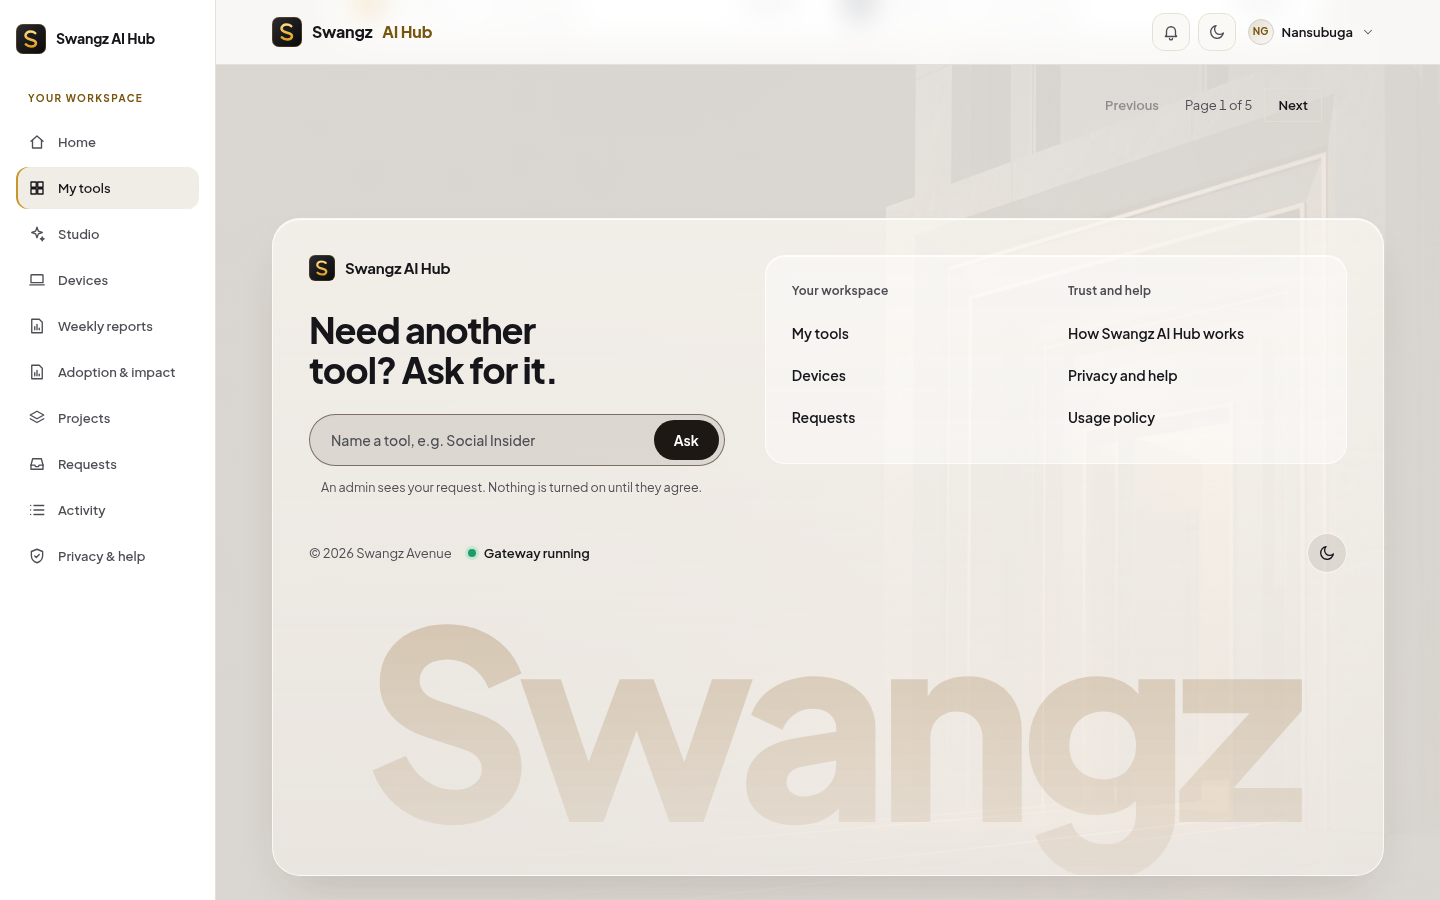
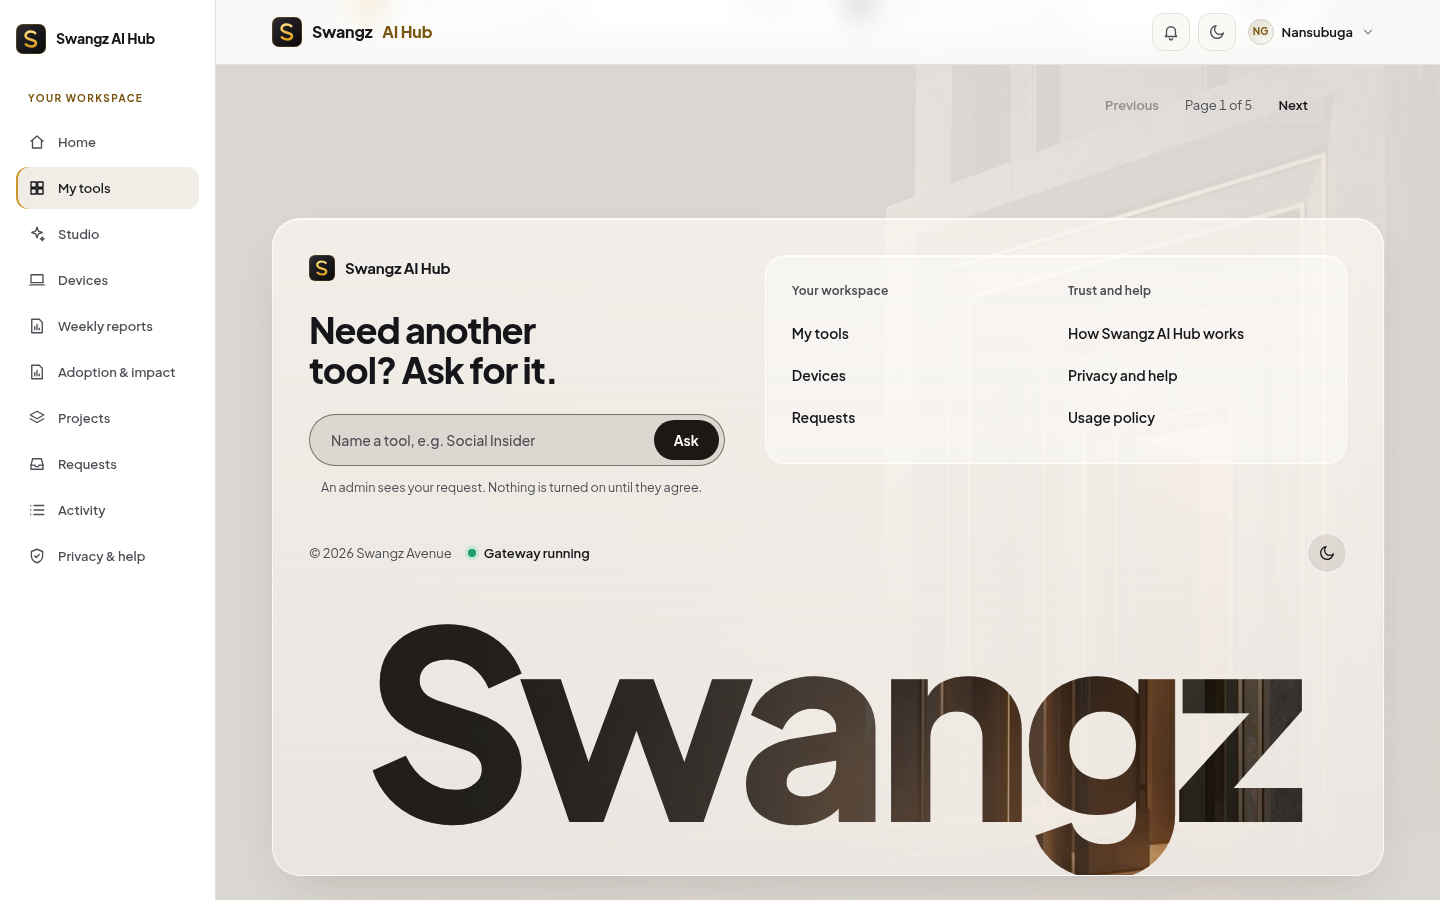
Footer wordmark: show the scene photo through the letters (placed by layout, no fixed background, filter or stroke); same-distance trace and measured contrast

Changed region(s): [[0.25, 0.6844, 0.9062, 0.9956]]

diff --git a/gateway/static/portal.js b/gateway/static/portal.js
@@ -351,6 +351,7 @@
             col("Trust and help", [link("#/privacy", "How Swangz AI Hub works"), link("#/privacy", "Privacy and help"), el("button", { type: "button", onclick: policy }, "Usage policy")]))),
         el("div", { class: "gf-meta" }, el("span", { class: "gf-copy" }, "\u00a9 " + new Date().getFullYear() + " Swangz Avenue"), status, el("span", { class: "gf-theme-wrap" }, theme)),
         el("div", { class: "gf-word", "aria-hidden": "true" }, "Swangz"))));
+    wordmarkScene(f);
     if ("IntersectionObserver" in window && !matchMedia("(prefers-reduced-motion: reduce)").matches) {
       f.classList.add("gf-armed");
       const show = () => { f.classList.add("gf-in"); io.disconnect(); };
@@ -361,6 +362,42 @@
     }
     return f;
   }
+
+  /* The wordmark's letters are windows onto the scene photo behind the milky panel. The scene is one fixed plane (body::before,
+     centre / cover); a fixed background on the letters would be repainted on every scroll step, so the letters get an ordinary
+     background laid out once to line up with that plane where the footer comes to rest (page scrolled to the end). It is measured
+     on load and on resize, never on scroll. Before the photo is known the CSS falls back to a plain gradient. */
+  function wordmarkScene(f) {
+    const word = f.querySelector(".gf-word");
+    let ratio = 0, frame = 0;
+    const place = () => {
+      frame = 0;
+      if (!ratio || !word.isConnected) return;
+      const vw = document.documentElement.clientWidth, vh = window.innerHeight;
+      const scale = Math.max(vw / ratio[0], vh / ratio[1]), bw = ratio[0] * scale, bh = ratio[1] * scale;
+      const box = word.getBoundingClientRect();
+      const rest = Math.max(0, document.documentElement.scrollHeight - vh);   // where the page ends up when the footer is fully shown
+      const left = box.left, top = box.top + window.scrollY - rest;
+      const st = word.style;
+      st.setProperty("--gf-bw", bw.toFixed(1) + "px"); st.setProperty("--gf-bh", bh.toFixed(1) + "px");
+      st.setProperty("--gf-bx", ((vw - bw) / 2 - left).toFixed(1) + "px"); st.setProperty("--gf-by", ((vh - bh) / 2 - top).toFixed(1) + "px");
+      f.classList.add("gf-photo");
+    };
+    const queue = () => { if (!frame) frame = requestAnimationFrame(place); };
+    wordmarkQueue = queue;   // the pages rebuild the footer; one listener below serves whichever footer is current
+    const m = /url\(["']?([^"')]+)["']?\)/.exec(getComputedStyle(document.body, "::before").backgroundImage || "");
+    if (!m) return;
+    const img = new Image();
+    img.onload = () => { ratio = [img.naturalWidth, img.naturalHeight]; queue(); };
+    img.src = m[1];
+    if (!wordmarkWatching) {
+      wordmarkWatching = true;
+      const again = () => { if (wordmarkQueue) wordmarkQueue(); };
+      window.addEventListener("resize", again);
+      if ("ResizeObserver" in window) new ResizeObserver(again).observe(document.body);   // the page grew or shrank above the footer
+    }
+  }
+  let wordmarkQueue = null, wordmarkWatching = false;
 
   function sectionHead(eyebrow, title, text, action) {
     return el("div", { class: "section-head" }, el("div", null, eyebrow ? el("div", { class: "eyebrow" }, eyebrow) : null, el("h1", null, title), text ? el("p", null, text) : null), action || null);

diff --git a/gateway/static/portal.css b/gateway/static/portal.css
@@ -374,11 +374,11 @@ dialog .d-actions { display: flex; justify-content: flex-end; gap: var(--s3); pa
 .foot.glass-foot { margin-top: var(--s9); border: 0; background: none; padding: 0 var(--gutter) var(--s6); }
 .gf-wrap { max-width: var(--shell); margin: 0 auto; container-type: inline-size; }
 .gf-panel {
-  --gf-ink: var(--tx-1); --gf-ink-2: var(--tx-2); --gf-cut-a: rgba(255, 246, 232, .34); --gf-cut-b: rgba(255, 246, 232, .08);
+  --gf-ink: var(--tx-1); --gf-ink-2: var(--tx-2); --gf-cut-a: rgba(255, 246, 232, .34); --gf-cut-b: rgba(255, 246, 232, .08); --gf-lift: rgba(255, 246, 232, .40);
   position: relative; border-radius: 28px; padding: clamp(20px, 3vw, 36px) clamp(18px, 3vw, 36px) 0; overflow: hidden;
   background: linear-gradient(180deg, rgba(48, 41, 37, .78), rgba(26, 22, 20, .84)); border: 1px solid var(--glass-rim); box-shadow: var(--glass-highlight), var(--glass-shadow); color: var(--gf-ink);
 }
-html[data-theme="light"] .gf-panel { --gf-cut-a: rgba(150, 108, 50, .30); --gf-cut-b: rgba(150, 108, 50, .08); background: linear-gradient(180deg, rgba(250, 246, 240, .74), rgba(245, 240, 234, .58)); }
+html[data-theme="light"] .gf-panel { --gf-lift: rgba(60, 44, 30, .34); --gf-cut-a: rgba(150, 108, 50, .30); --gf-cut-b: rgba(150, 108, 50, .08); background: linear-gradient(180deg, rgba(250, 246, 240, .74), rgba(245, 240, 234, .58)); }
 .gf-grid { display: grid; grid-template-columns: minmax(0, 5fr) minmax(0, 7fr); gap: clamp(20px, 3vw, 40px); align-items: start; }
 .gf-brand { display: inline-flex; align-items: center; gap: 10px; font-weight: 700; font-size: 15px; letter-spacing: -.01em; }
 .gf-brand img { width: 26px; height: 26px; }
@@ -418,9 +418,15 @@ html[data-theme="light"] .gf-theme { background: rgba(60, 44, 30, .10); }
 @supports (container-type: inline-size) { .gf-word { font-size: 23.5cqw; } }
 .gf-word {
   letter-spacing: -.05em; padding-bottom: .11em; text-align: center; color: transparent; -webkit-text-fill-color: transparent;
-  /* A plain gradient clipped to the letters: no photo and no fixed attachment (a fixed background is repainted on every scroll step),
-     and no filter layer. Etched-glass letters from two translucent tints. */
+  /* Windows onto the scene photo behind the panel (footer reference): the letters are the one place the milky glass is clear.
+     An ordinary scrolling background, not a fixed one (a fixed background is repainted on every scroll step) and no filter:
+     portal.js lays the photo out once so it lines up with the fixed scene where the footer comes to rest (--gf-bx/by/bw/bh).
+     Until then (or without JS) the letters are a flat translucent gradient. --gf-lift keeps them readable against the panel. */
   background: linear-gradient(180deg, var(--gf-cut-a), var(--gf-cut-b)); -webkit-background-clip: text; background-clip: text;
+}
+.gf-photo .gf-word {
+  background: linear-gradient(var(--gf-lift), var(--gf-lift)), var(--scene-image) var(--gf-bx) var(--gf-by) / var(--gf-bw) var(--gf-bh) no-repeat;
+  -webkit-background-clip: text; background-clip: text;
 }
 
 /* The reveal: only when armed (observer present, motion allowed); otherwise the footer is simply there.

diff --git a/docs/screenshots/glass-r11/README.md b/docs/screenshots/glass-r11/README.md
@@ -8,7 +8,7 @@ Real data only: health is the public `/healthz` (cached 60 s), "Ask" reuses the 
 
 ## Differences still left versus the reference
 - The panel's top edge settles straight; the reference keeps a wavy liquid edge. The reveal wave was removed with the panel animation (below).
-- (Superseded by the corrections below: the wordmark is now a plain clipped gradient.) In dark theme the wordmark was the fixed scene lifted by a warm light layer, so "Swa" reads as soft grey while "ngz" shows more of the photo; the reference letters are brighter still. The rim is a drop-shadow, not a text stroke (a stroke drew the variable font's overlapping inner contours).
+- (Superseded by the last correction below: the letters show the scene photo again, placed by layout.) In dark theme the wordmark was the fixed scene lifted by a warm light layer, so "Swa" reads as soft grey while "ngz" shows more of the photo; the reference letters are brighter still. The rim is a drop-shadow, not a text stroke (a stroke drew the variable font's overlapping inner contours).
 - The "g" descender runs into the panel's bottom edge on purpose (cut-off wordmark); the reference shows the full letter.
 - Light theme panel is a flatter cream than the reference's frosted white; the panel is a layered translucent gradient with no backdrop blur (see below), so it is flatter than frosted glass.
 - Gateway status has three wordings (running; up with the database not responding; not answering). No other health data is available to show.
@@ -43,3 +43,32 @@ Findings: the live backdrop blur was the main cost (a blur radius of 8 px cost t
 | light | 83, 83, 67, 67 ms | 83, 67, 83, 67 ms | 11, 11, 10, 10 | 11, 10, 10, 9 |
 
 Honest reading: dark shows a modest, repeatable gain in p95 and worst frame (max 117-183 ms before, 83-100 ms now); the count of slow frames and the light theme are within noise. **I do not claim parity with main.** Not run: a same-harness main baseline (main has no footer), a real GPU, a Chrome performance-trace file. The scroll loop is driven through Playwright, so some of the slow frames are harness overhead. The earlier experiment with the wordmark hidden (67-117 ms) suggests the remaining cost is the page, not the wordmark.
+
+## Correction after Probe's Medium finding on the flat wordmark (scene through the letters, no repaint cost)
+Probe measured the flat-gradient letters at about 1.76:1 (dark) and 1.2:1 (light) against the panel, and the reference (`footer-03`) shows the letters as clear windows onto the sharp scene behind the frosted panel.
+- **Letters show the scene photo again, without a fixed background or a filter.** `.gf-word` paints the same `--scene-image` through the letters (`background-clip: text`, normal scroll-attached background, painted once and moved by the compositor). `wordmarkScene()` in `portal.js` sets four custom properties (`--gf-bw/-bh/-bx/-by`: the photo's cover size and offset) so the photo lines up with the fixed scene where the footer comes to rest at the bottom of the page. It runs on load, on window resize and when the body resizes, never on scroll. Until the image size is known (or if it fails) the flat gradient from the previous correction is the fallback. A light "lift" layer (`--gf-lift`) sits over the photo so the letters read as bright frosted windows in dark and as deep ones in light.
+- Honest limit: the scene photo is fixed to the viewport, the letters scroll. They line up when the footer is at rest (page scrolled to the end, which is where it is seen); while the page is still scrolling the photo in the letters is a fixed picture inside moving letters, not the scene behind them. The page is not re-measured on scroll on purpose.
+- **Contrast, measured** (screenshot with and without the wordmark; luminance of the letters against the panel around them, WCAG ratio, left third "Swa" and right two thirds "ngz"):
+
+| Theme / size | Swa | ngz |
+|---|---|---|
+| dark 1440x900 | 3.7 | 4.9 |
+| dark 390x844 | 3.7 | 4.6 |
+| light 1440x900 | 10.7 | 8.1 |
+| light 390x844 | 8.1 | 6.8 |
+
+  The wordmark is decorative (`aria-hidden`), so 3:1 is a target, not a requirement; it is met in all four.
+- `check.cjs`: the wordmark has no text stroke, no filter, no fixed attachment, a `url()` image clipped to text once `gf-photo` is set, and its offsets do not change while scrolling (both themes, both sizes).
+
+### Same-distance trace, branch versus main
+Earlier traces compared scroll distances of 845 px (branch) and 256 px (main); that comparison is withdrawn. Now every arm scrolls exactly 845 px: `DISTANCE=845` adds a spacer above main's plain footer so main's page is as long, then the same 24 steps 30 ms apart and 1.6 s of rest. `perf.cjs`, 1440x900, dark, headless Chrome `--disable-gpu` (software render, one weak laptop, other work running), rounds interleaved, 4 runs per arm per round. Frames over 50 ms per run:
+
+| Arm | Runs | Mean | Range |
+|---|---|---|---|
+| main (plain footer, no reveal) | 16 | 8.2 | 2 to 11 |
+| this branch | 16 | 10.3 | 5 to 14 |
+| branch, reveal switched off by injected CSS | 8 | 8.0 | 4 to 11 |
+| branch, flat-gradient wordmark by injected CSS | 8 | 10.1 | 9 to 12 |
+| branch, previous fixed-photo wordmark with filter | 8 | 10.4 | 7 to 14 |
+
+Reading: the arms overlap a lot and the p95 swings from 50 to 180 ms between rounds even on main, so this is noise-limited. What it supports: the photo in the letters costs nothing measurable over the flat gradient (10.3 against 10.1); the branch is about two slow frames per run above main, and that gap closes when the reveal is switched off (8.0 against 8.2), so the extra frames belong to the reveal animation main does not have (opacity and transform only). It does not show the old wordmark was worse, so the earlier "gain" claim is also not repeated here. **No parity with main is claimed.** Not run: a real GPU, a Chrome performance-trace file, light theme (not repeated), a reveal-free variant on a device. Reproduce: `DISTANCE=845 node docs/screenshots/glass-r11/perf.cjs`, `ROOT=<main checkout> DISTANCE=845 ...`, `EXTRACSS='...'`, `OLDWORD=1`.
